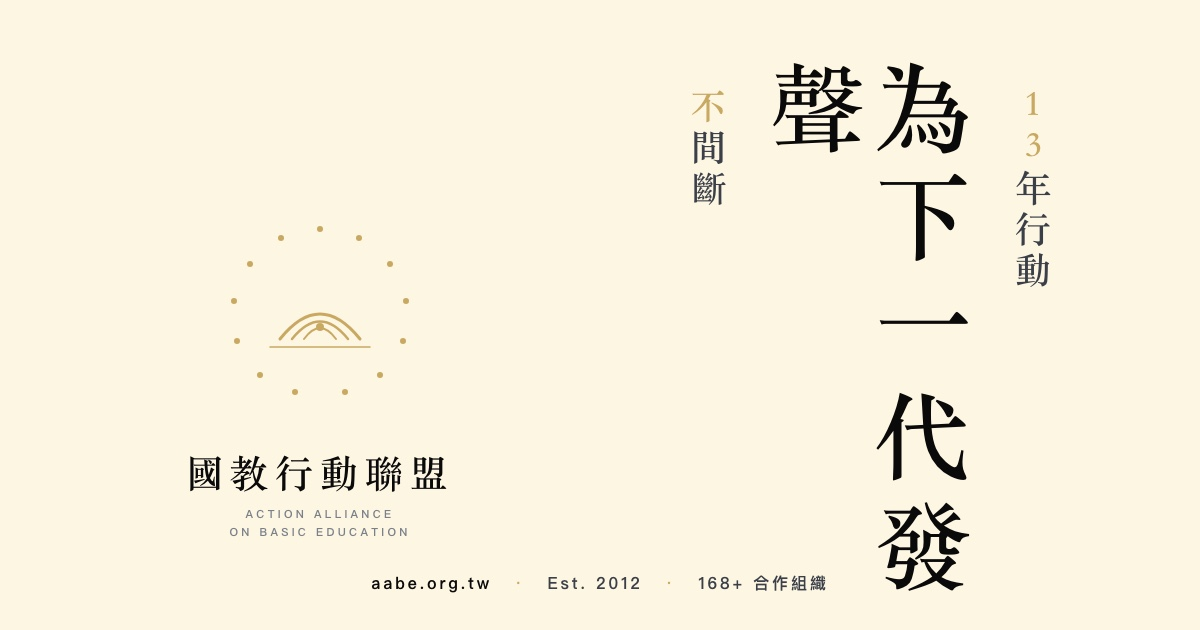
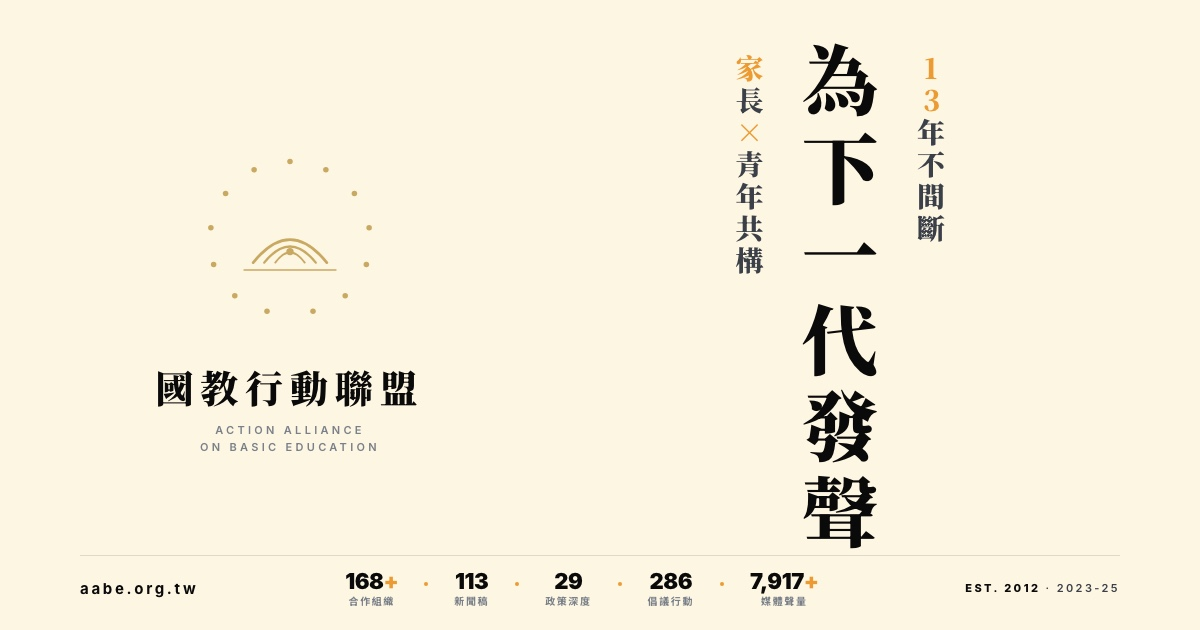
首頁 OG v2：含「家長 × 青年共構」+ 5 大數字 + 對齊新版橘色
依用戶 2026-05-16 回報「首頁 OG 縮圖沒變」。
原 og-cover.jpg 是 5/14 的 B 版（直書「為下一代發聲」），
之後新增的元素都沒反映上去。

新版 og-cover.jpg (v2)：
- 保留 og-B 直書精神 + 金色家徽 + 米色背景
- 主標：「為下一代發聲」（中央直書）
- 副標：「家長 × 青年共構」（左）+「13 年不間斷」（右），accent 用新版橘 #EB9B31
- 底部數據條：5 個關鍵數字並排
  · 168+ 合作組織
  · 113 新聞稿
  · 29 政策深度（新加）
  · 286 倡議行動
  · 7,917+ 媒體聲量
- 加 EST. 2012 · 2023-25 時段標
- accent 色全部對齊 #EB9B31（跟全站視覺一致）

URL 加版本參數 ?v=2026-05-16 強制 LINE/FB cache 刷新。

diff --git a/public/index.html b/public/index.html
@@ -29,7 +29,7 @@
   <!-- ═══ Open Graph（修正 og:title）═══ -->
   <meta property="og:title" content="國教行動聯盟｜為孩子的教育權發聲">
   <meta property="og:description" content="台灣兒少與教育倡議組織，由家長部與青年部雙軸共構推動兒少權益。校園安全・兒少保護・教育改革・青少年身心健康。從倡議到改變，我們為孩子發聲。">
-  <meta property="og:image" content="https://aabe.org.tw/wp-content/uploads/og-cover.jpg">
+  <meta property="og:image" content="https://aabe.org.tw/wp-content/uploads/og-cover.jpg?v=2026-05-16">
   <meta property="og:image:width" content="1200">
   <meta property="og:image:height" content="630">
   <meta property="og:url" content="https://aabe.org.tw/">
@@ -41,7 +41,7 @@
   <meta name="twitter:card" content="summary_large_image">
   <meta name="twitter:title" content="國教行動聯盟｜為孩子的教育權發聲">
   <meta name="twitter:description" content="台灣兒少與教育倡議組織，由家長部與青年部雙軸共構推動兒少權益。校園安全・兒少保護・教育改革・青少年身心健康。">
-  <meta name="twitter:image" content="https://aabe.org.tw/wp-content/uploads/og-cover.jpg">
+  <meta name="twitter:image" content="https://aabe.org.tw/wp-content/uploads/og-cover.jpg?v=2026-05-16">
 
   <!-- ═══ Schema.org #1: Organization (NGO) ═══ -->
   <script type="application/ld+json">
